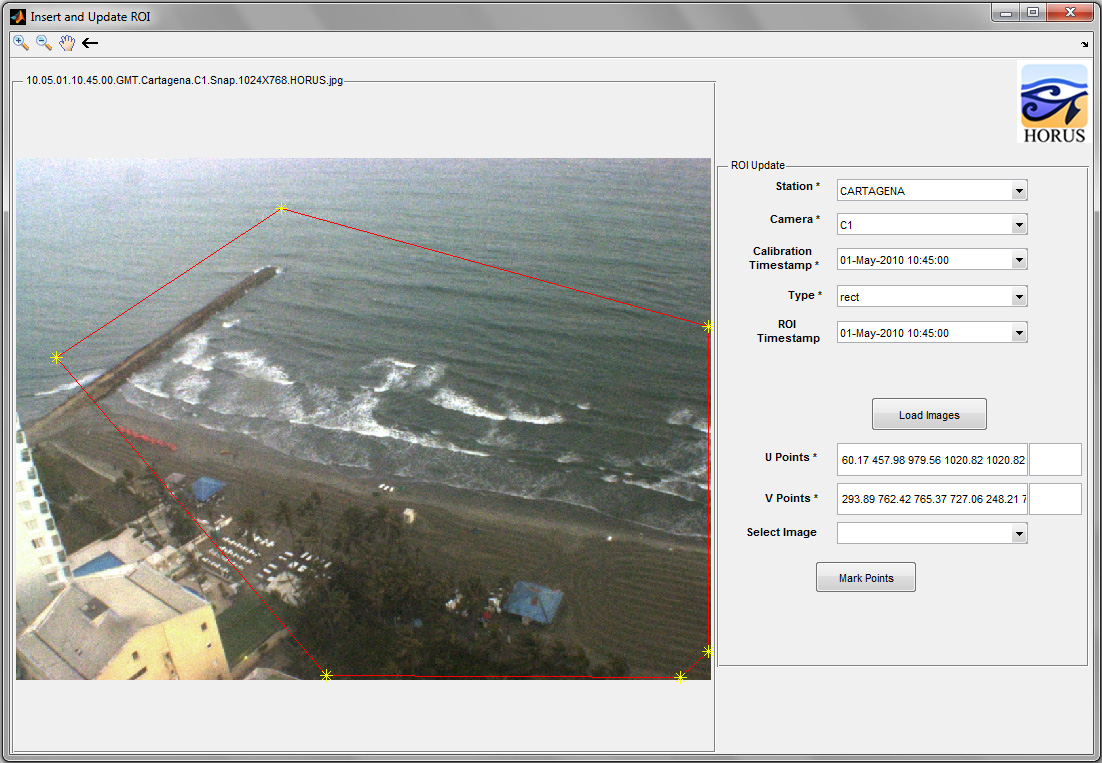
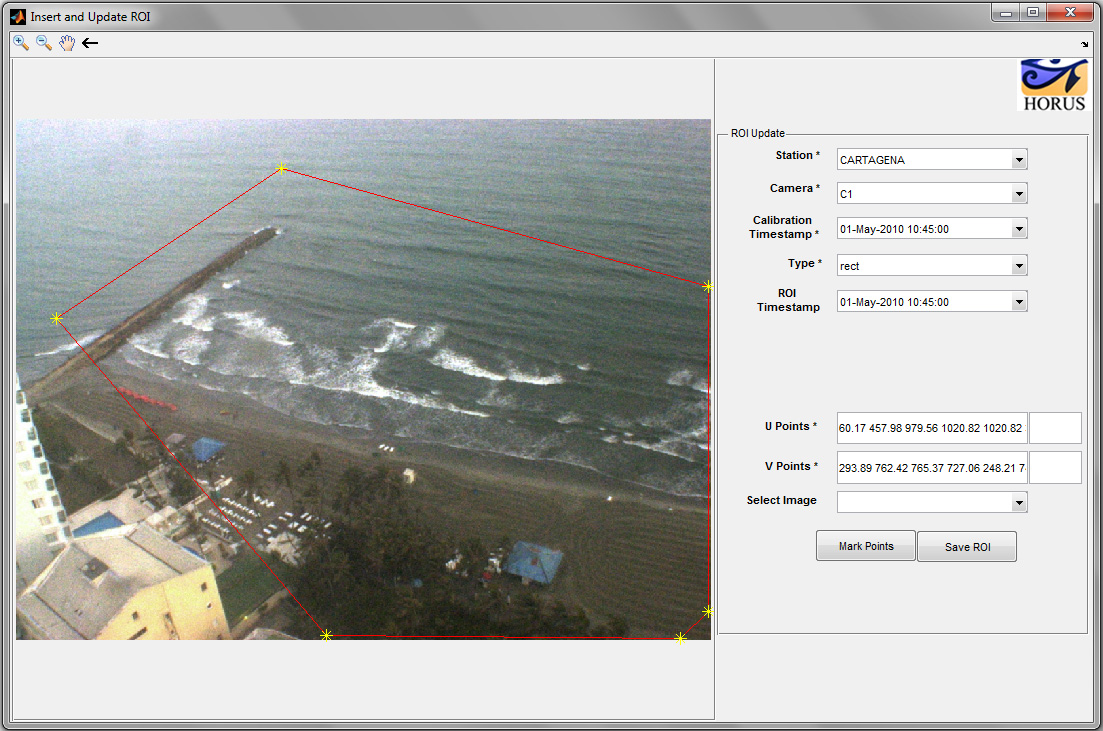
Se corrigieron algunos errores de las interfaces y se actualizaron algunas imágenes.

Changed region(s): [[0.0, 0.0, 1.0, 1.0], [0.0, 0.9631, 0.6788, 0.9932], [0.8947, 0.9631, 0.9256, 0.9932]]

diff --git a/gui/gui_roi_tool.m b/gui/gui_roi_tool.m
@@ -797,6 +797,8 @@ try
                     hold(handles.image, 'on')
                     % Display ROI
                     plot(u,v,'-*r','MarkerSize',10,'MarkerFaceColor','g','MarkerEdgeColor','y', 'Parent', handles.image)
+                    set(handles.saveButton,'Enable','on');
+                    
                 end
             end
             % Update handles structure
@@ -838,6 +840,7 @@ try
                     end
                     % Display new ROI
                     plot(u,v,'-*r','MarkerSize',10,'MarkerFaceColor','g','MarkerEdgeColor','y', 'Parent', handles.image)
+                    
                 end
             end
             % Update handles structure
@@ -888,6 +891,7 @@ try
                     hold(handles.image, 'on')
                     % Display ROI
                     plot(u,v,'-*r','MarkerSize',10,'MarkerFaceColor','g','MarkerEdgeColor','y', 'Parent', handles.image)
+                    set(handles.saveButton,'Enable','on');
                 end
             end
             % Update handles structure
@@ -928,6 +932,7 @@ try
                     end
                     % Display new ROI
                     plot(u,v,'-*r','MarkerSize',10,'MarkerFaceColor','g','MarkerEdgeColor','y', 'Parent', handles.image)
+                    
                 end
             end
             % Update handles structure

diff --git a/gui/gui_rectify_images.m b/gui/gui_rectify_images.m
@@ -229,7 +229,7 @@ try
         set(handles.buttonStartRectification, 'Enable', 'off')
         set(handles.radioSaveDB, 'Enable', 'off')
     end
-    
+    handles.roi = [];
     % Update handles structure
     guidata(hObject, handles);
 catch e
@@ -252,7 +252,7 @@ try
         % Set time sliders
         handles = reload_time(handles);
         handles = reload_calibration_time(handles);
-        
+        handles.roi = [];
         % Update handles structure
         guidata(hObject, handles);
     else
@@ -280,7 +280,7 @@ try
         % Set time sliders
         handles = reload_time(handles);
         handles = reload_calibration_time(handles);
-        
+        handles.roi = [];
         % Update handles structure
         guidata(hObject, handles);
     else
@@ -802,6 +802,9 @@ try
     else
         set(handles.buttonSeemore, 'Enable', 'off')
     end
+    handles.roi = [];
+    % Update handles structure
+    guidata(hObject, handles);
 catch e
     disp(e.message)
 end

diff --git a/io/load_calibration.m b/io/load_calibration.m
@@ -55,7 +55,7 @@ try
             'WHERE timestamp <= ' num2str(timestamp + EPS,17) ' '...
             'AND station LIKE "' station '" '...
             'AND camera LIKE "' camera '" '...
-            ' ORDER BY timestamp DESC LIMIT 0,1)'
+            ' ORDER BY timestamp, idcalibration DESC LIMIT 0,1)'
             ];
         cursor = exec(conn, query);
         cursor = fetch(cursor);
